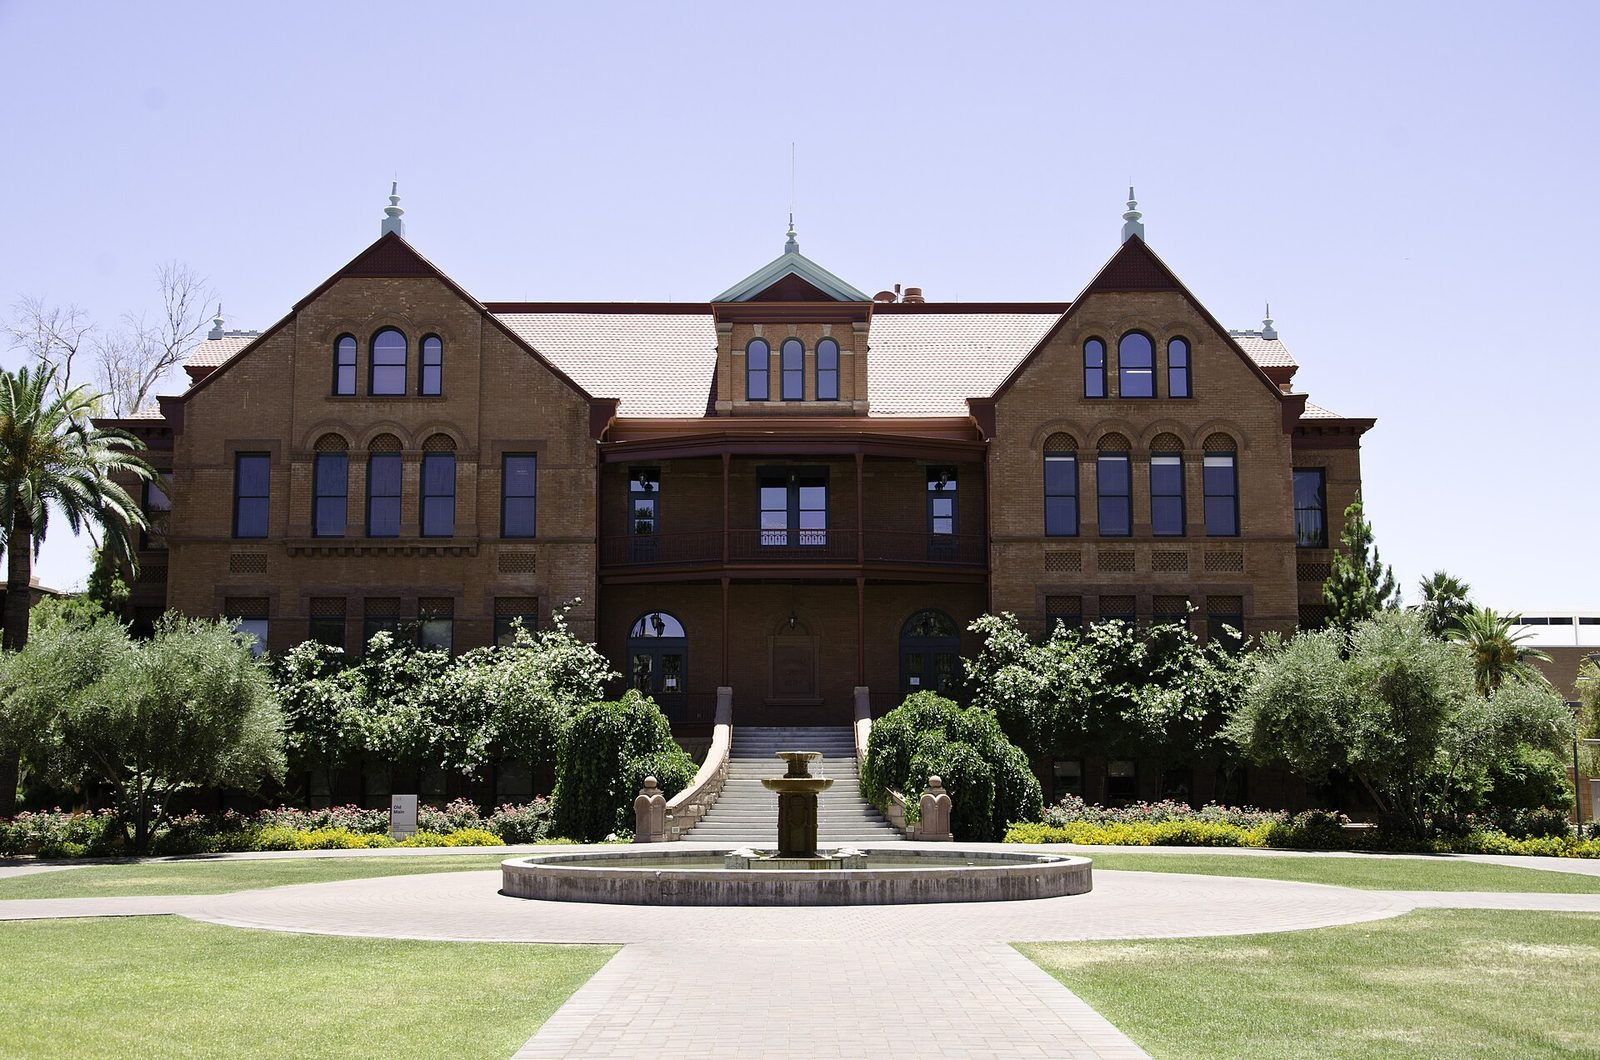
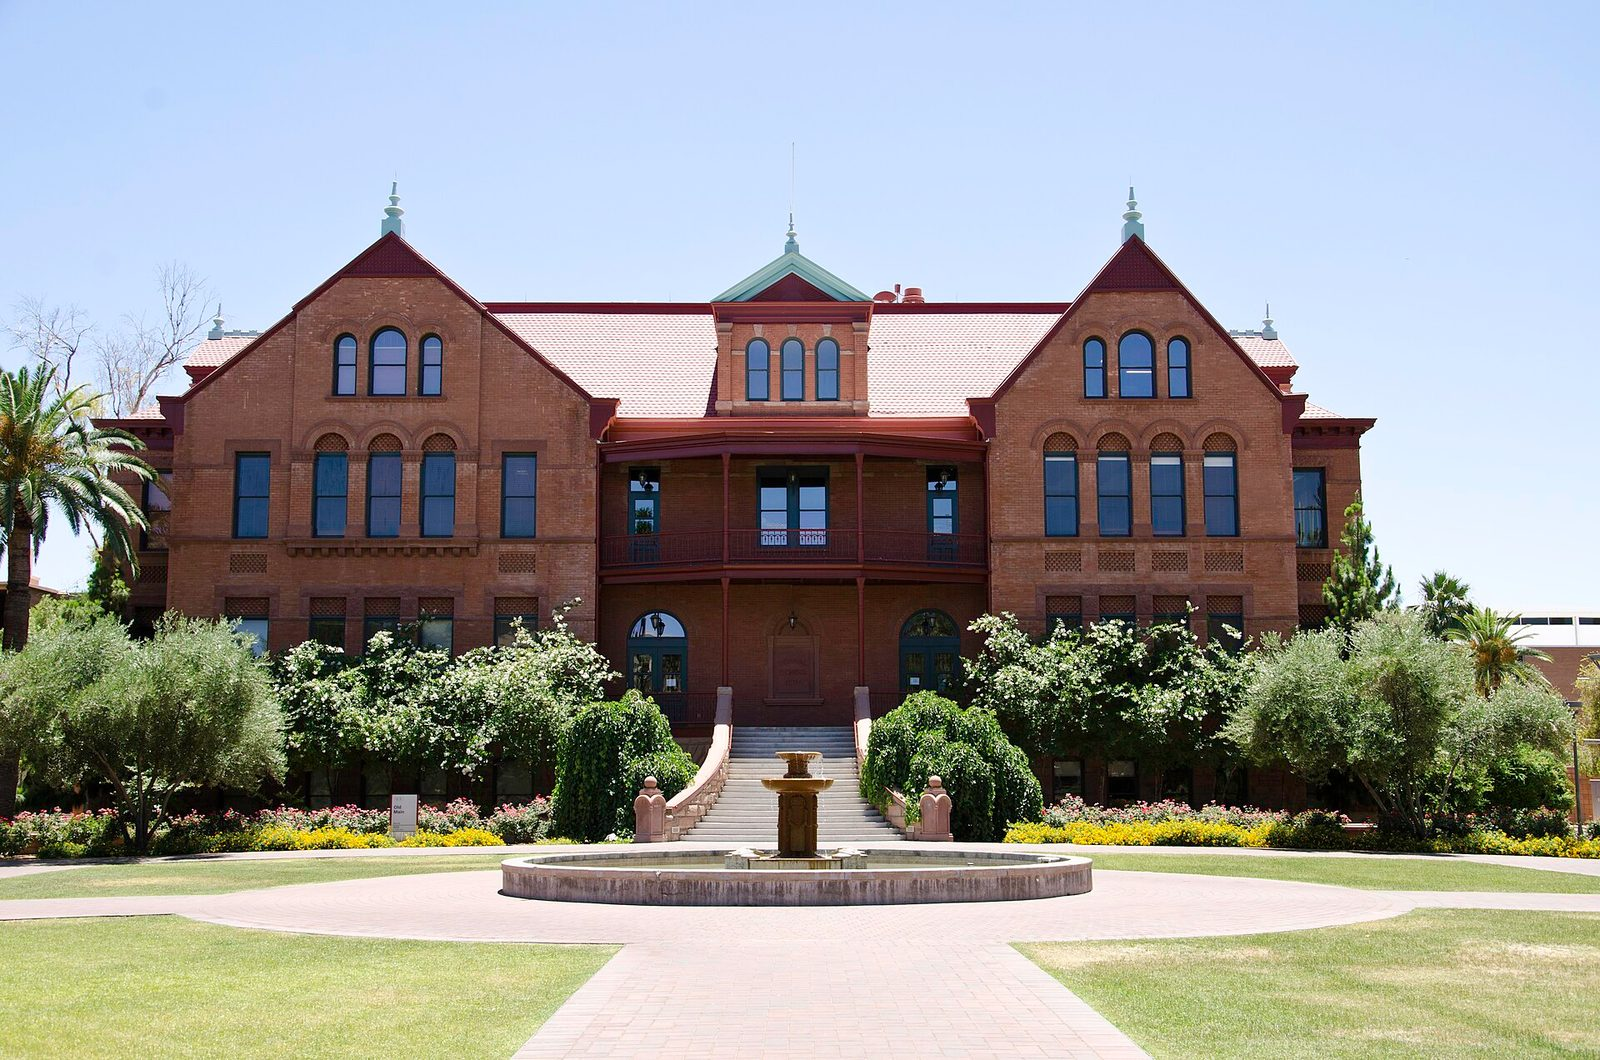
Convert photo colour profiles to sRGB when resizing; regenerate the neighborhood photos

diff --git a/resize-photos.py b/resize-photos.py
@@ -3,20 +3,29 @@
 # Each .jpg/.jpeg/.png becomes a 1600px-long-side progressive JPEG at quality 82,
 # with all metadata (including GPS location) dropped. Needs Pillow: pip3 install pillow
 
-import sys, os
-from PIL import Image, ImageOps
+import sys, os, io
+from PIL import Image, ImageOps, ImageCms
 
 src, dst = sys.argv[1], sys.argv[2]
 os.makedirs(dst, exist_ok=True)
+SRGB = ImageCms.createProfile("sRGB")
 
 for name in sorted(os.listdir(src)):
     base, ext = os.path.splitext(name)
     if ext.lower() not in (".jpg", ".jpeg", ".png"):
         continue
     im = Image.open(os.path.join(src, name))
+    icc = im.info.get("icc_profile")
     im = ImageOps.exif_transpose(im)           # honour the phone's rotation flag
     im = im.convert("RGB")
+    if icc:
+        # Convert to standard web colour before the profile is dropped, otherwise photos
+        # saved in Display P3 (iPhones) or ProPhoto come out dull or with shifted colours.
+        try:
+            im = ImageCms.profileToProfile(im, ImageCms.ImageCmsProfile(io.BytesIO(icc)), SRGB, outputMode="RGB")
+        except Exception:
+            print(f"  note: could not read the colour profile in {name}; colours kept as they are")
     im.thumbnail((1600, 1600), Image.LANCZOS)  # long side becomes 1600px, proportions kept
     out = os.path.join(dst, base + ".jpg")
-    im.save(out, "JPEG", quality=82, optimize=True, progressive=True)  # no EXIF written
+    im.save(out, "JPEG", quality=82, optimize=True, progressive=True)  # no EXIF, no colour profile
     print(f"{name} -> {out}  {im.size[0]}x{im.size[1]}  {os.path.getsize(out) // 1024} KB")
